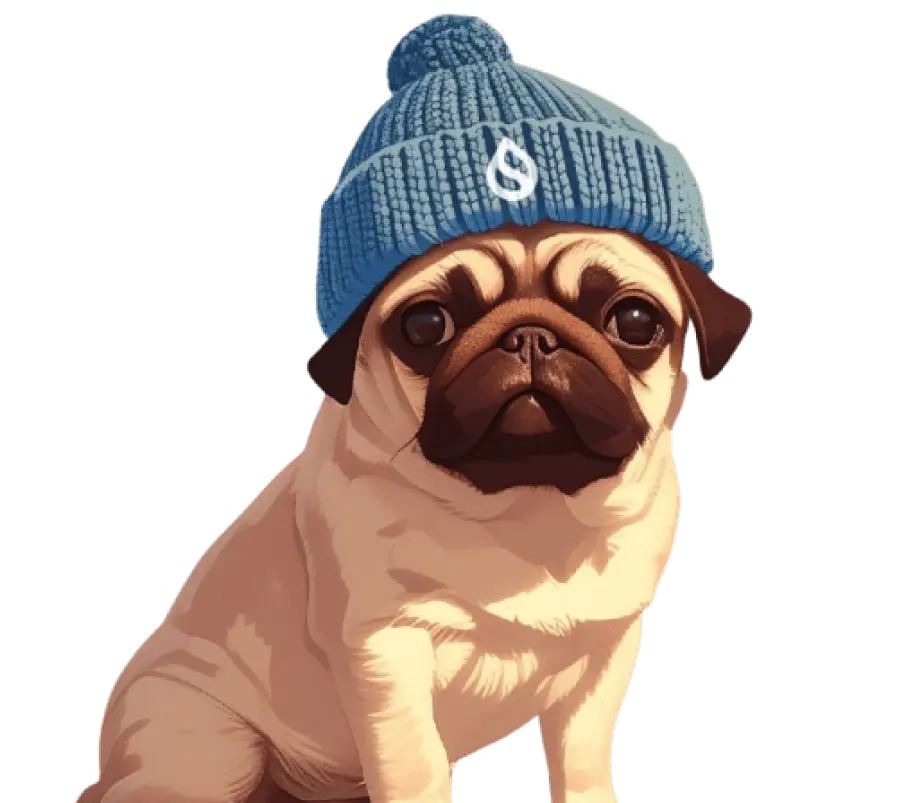
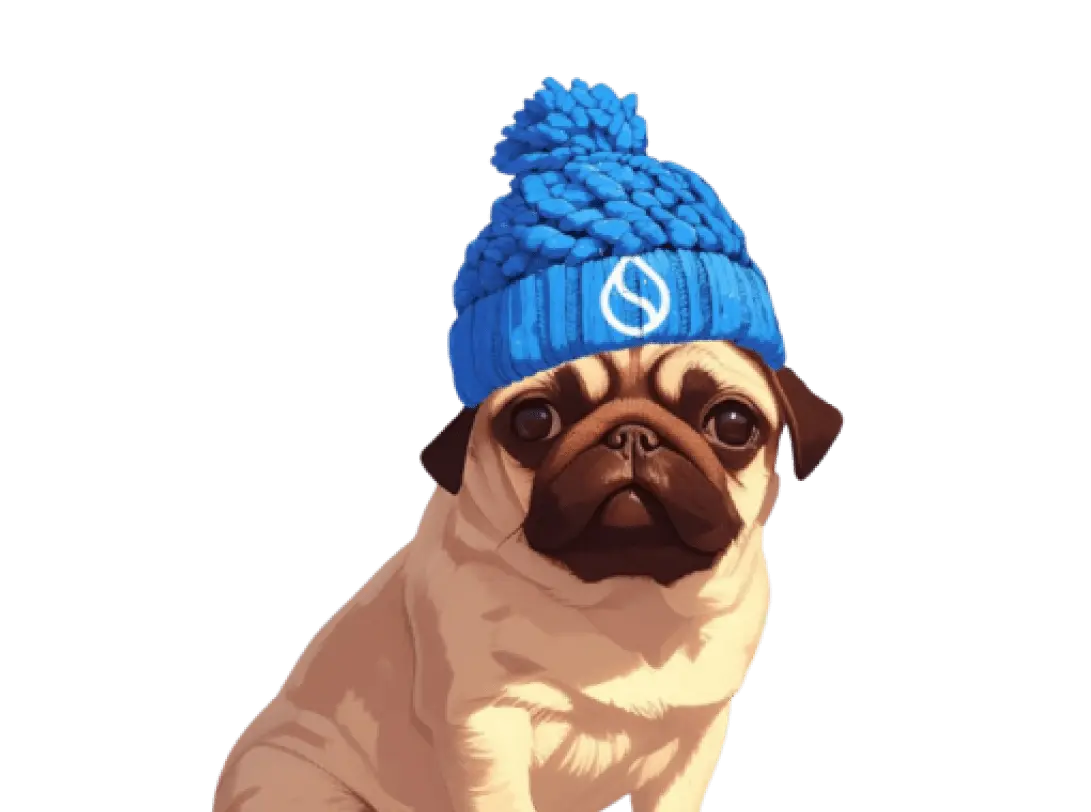
:lipstick: fix: ui

diff --git a/components/hero/index.tsx b/components/hero/index.tsx
@@ -25,7 +25,7 @@ const Hero: FC = () => (
       position="absolute"
       justifyContent="center"
     >
-      <Img height="70vh" alt="The Pug" src="/the-pug.webp" />
+      <Img height="72vh" alt="The Pug" src="/the-pug.webp" />
     </Div>
     <Div
       p="0.5rem"
